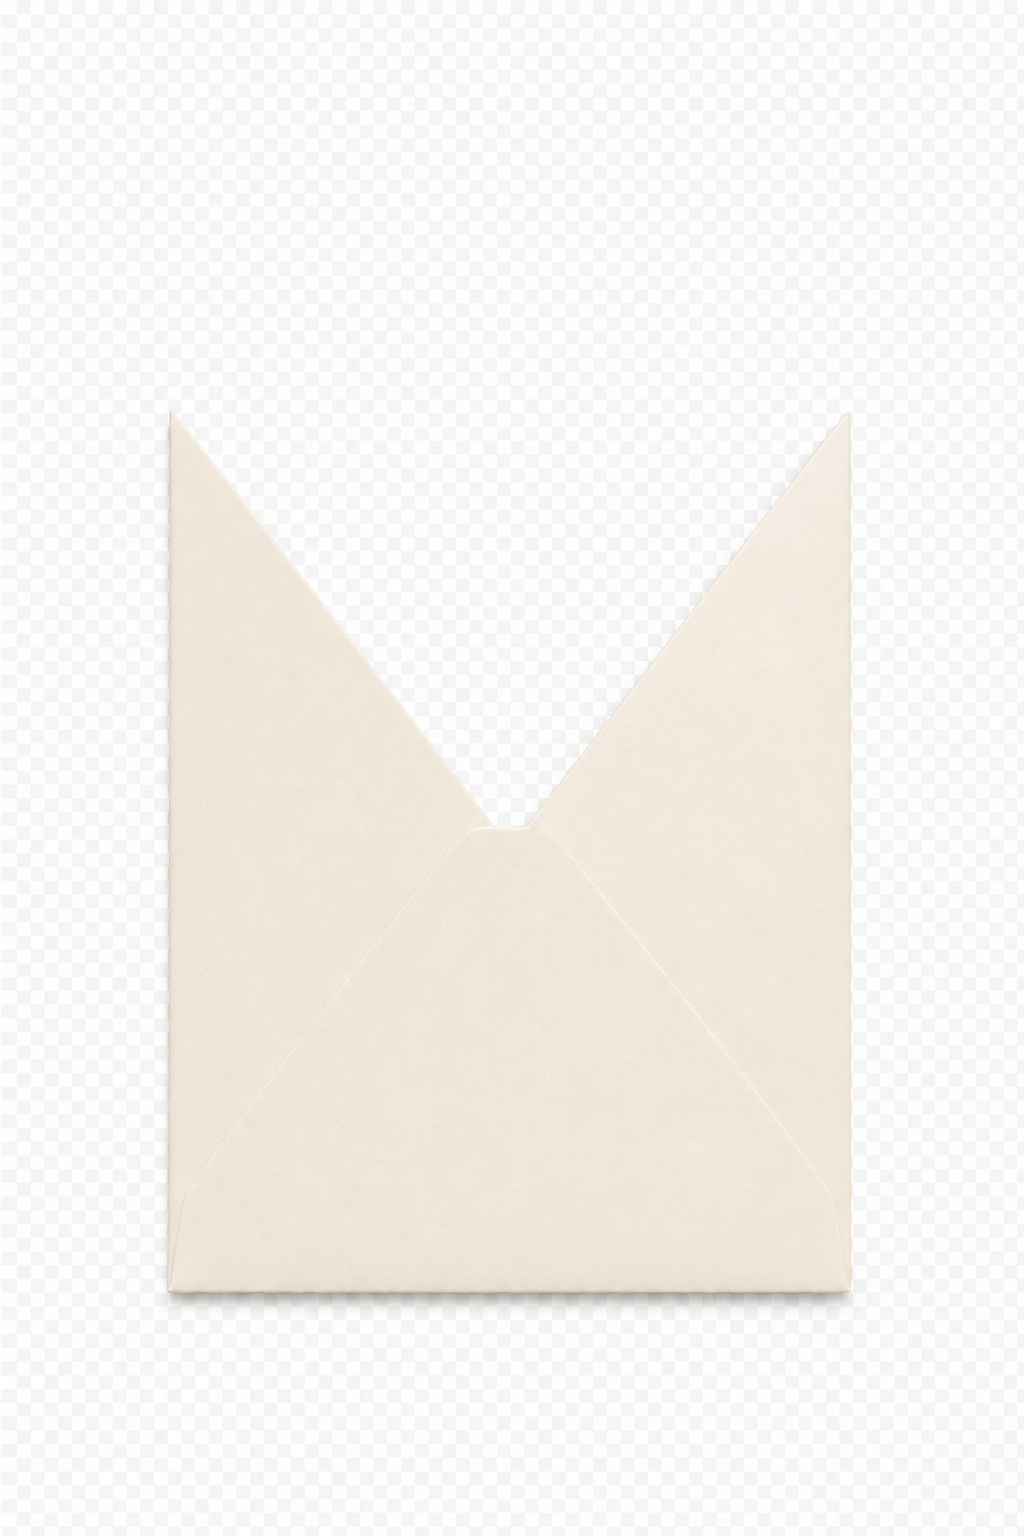
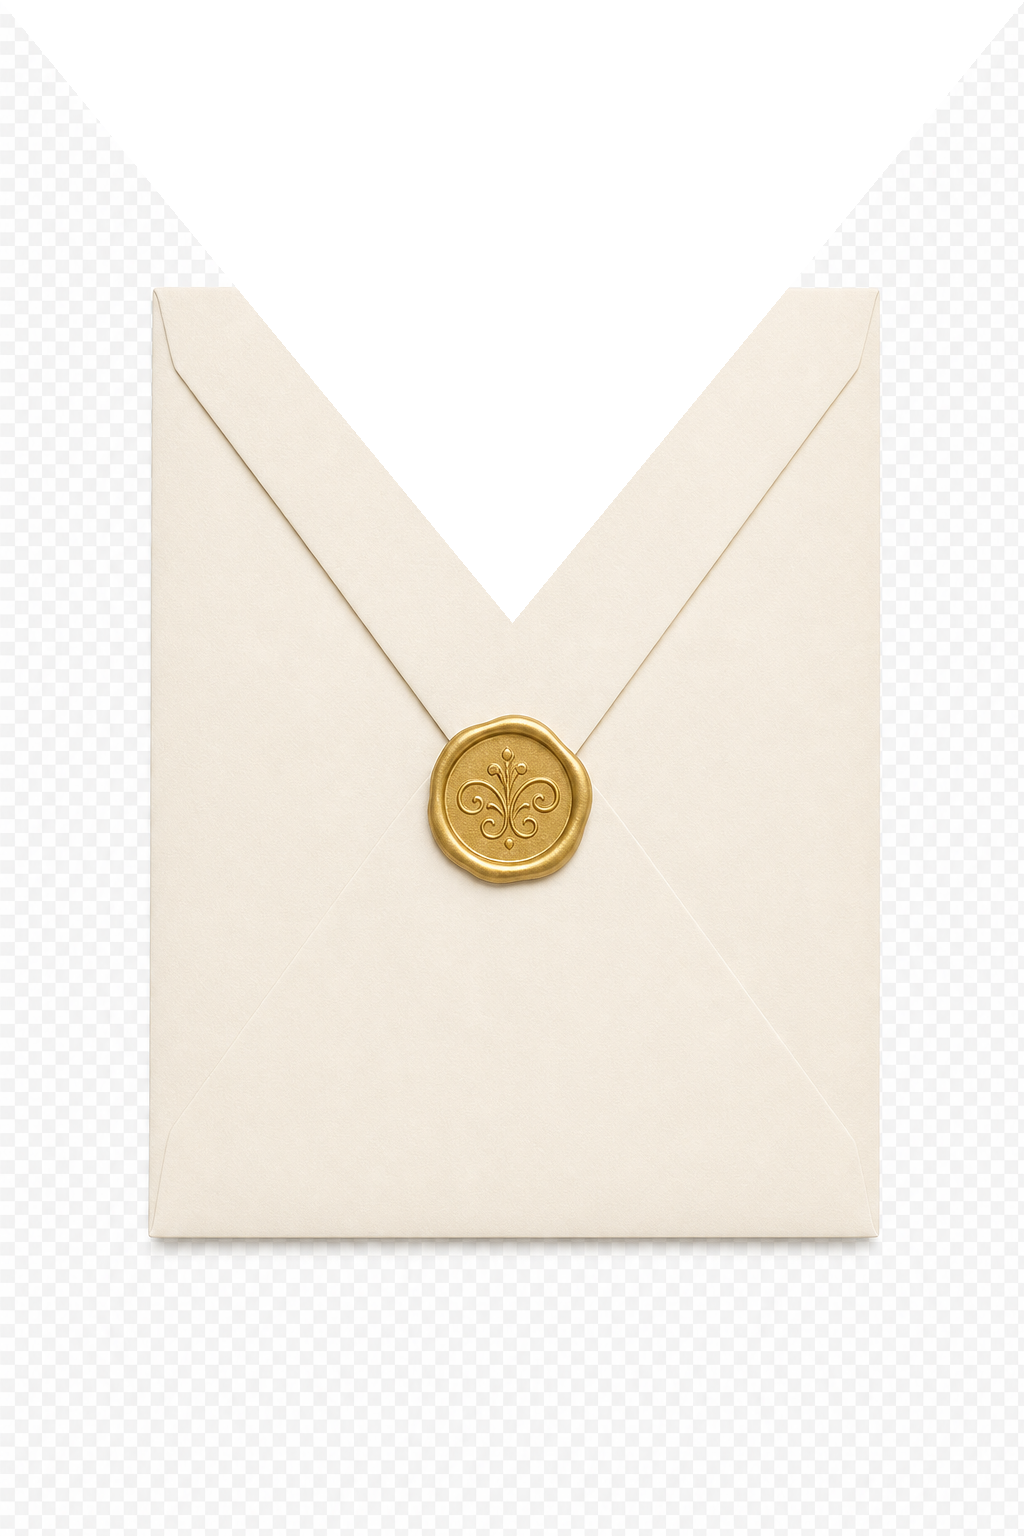
Fix 3d-cinema envelope: use closed asset layers with clip-path
The generated layer PNGs did not composite into a believable closed
envelope. Rebuild 3d-cinema from envelope-closed.png with a clipped
flap overlay, crossfade to envelope-open on flap rotation, and remove
the duplicate SVG seal over the baked wax seal.

Changed region(s): [[0.125, 0.1875, 0.875, 0.875]]

diff --git a/styles.css b/styles.css
@@ -302,19 +302,21 @@ textarea {
   width: 100%;
   height: 100%;
   object-fit: cover;
-  object-position: center;
+  object-position: center 42%;
   pointer-events: none;
   display: none;
   user-select: none;
   -webkit-user-drag: none;
 }
 
-.envelope__back { z-index: 1; }
+.envelope__interior { z-index: 1; opacity: 0; }
 .envelope__letter { z-index: 2; }
-.envelope__front { z-index: 3; }
+.envelope__body { z-index: 3; }
 .envelope__flap {
   z-index: 4;
-  transform-origin: top center;
+  clip-path: polygon(0 0, 100% 0, 50% 40.5%);
+  transform-origin: 50% 40.5%;
+  backface-visibility: hidden;
   will-change: transform;
   transition: transform var(--anim-flap-open) cubic-bezier(0.4, 0, 0.2, 1), z-index 0s var(--anim-flap-open);
 }
@@ -326,6 +328,10 @@ body.anim-3d-cinema .envelope__part {
 body.anim-3d-cinema .envelope__open,
 body.anim-3d-cinema .envelope__closed {
   display: none;
+}
+
+body.anim-3d-cinema .envelope__stage {
+  animation: envelopeBreathe 4.5s ease-in-out infinite;
 }
 
 .envelope__open,
@@ -570,8 +576,17 @@ body.anim-cinematic .invitation.is-revealed-zoom {
 }
 
 /* ——— Variant: 3D Cinema (layered envelope + physical flap) ——— */
-body.anim-3d-cinema .envelope__seal { opacity: 1; visibility: visible; }
-body.anim-3d-cinema .envelope-scene.is-seal-breaking .envelope__seal-svg { animation: sealCrack var(--anim-seal-break) var(--ease-out) forwards; }
+body.anim-3d-cinema .envelope__seal { opacity: 0; visibility: hidden; }
+
+body.anim-3d-cinema .envelope-scene.is-seal-breaking .envelope__flap {
+  animation: sealFlapWiggle var(--anim-seal-break) var(--ease-out);
+}
+
+@keyframes sealFlapWiggle {
+  0%, 100% { transform: rotateX(0deg); }
+  35% { transform: rotateX(-4deg); }
+  70% { transform: rotateX(2deg); }
+}
 
 body.anim-3d-cinema .envelope__letter {
   opacity: 1;
@@ -579,8 +594,18 @@ body.anim-3d-cinema .envelope__letter {
   transform: translate(-50%, 20%) scale(0.88) rotate(-2deg);
 }
 
+body.anim-3d-cinema .envelope-scene.is-flap-opening .envelope__body {
+  opacity: 0;
+  transition: opacity calc(var(--anim-flap-open) * 0.35) var(--ease-out);
+}
+
+body.anim-3d-cinema .envelope-scene.is-flap-opening .envelope__interior {
+  opacity: 1;
+  transition: opacity calc(var(--anim-flap-open) * 0.45) var(--ease-out);
+}
+
 body.anim-3d-cinema .envelope-scene.is-flap-opening .envelope__flap {
-  transform: rotateX(180deg);
+  transform: rotateX(-165deg);
   z-index: 1;
 }
 

diff --git a/index.html b/index.html
@@ -14,7 +14,7 @@
   <link rel="preconnect" href="https://fonts.googleapis.com" />
   <link rel="preconnect" href="https://fonts.gstatic.com" crossorigin />
   <link href="https://fonts.googleapis.com/css2?family=Cormorant+Garamond:ital,wght@0,400;0,500;0,600;1,400;1,500&family=Italianno&family=Outfit:wght@300;400;500&display=swap" rel="stylesheet" />
-  <link rel="stylesheet" href="styles.css?v=15" />
+  <link rel="stylesheet" href="styles.css?v=16" />
 </head>
 <body>
   <!-- Envelope overlay -->
@@ -71,12 +71,12 @@
 
     <button type="button" class="envelope" id="envelope" aria-label="Apri la busta d'invito">
       <span class="envelope__stage" id="envelopeStage">
-        <img class="envelope__part envelope__back" src="images/envelope-back.png?v=16" alt="" draggable="false" />
+        <img class="envelope__part envelope__interior" src="images/envelope-open.png?v=15" alt="" draggable="false" />
         <div class="envelope__letter" aria-hidden="true">
           <span class="envelope__letter-monogram">G &amp; M</span>
         </div>
-        <img class="envelope__part envelope__front" src="images/envelope-front.png?v=16" alt="" draggable="false" />
-        <img class="envelope__part envelope__flap" src="images/envelope-flap.png?v=16" alt="" draggable="false" />
+        <img class="envelope__part envelope__body" src="images/envelope-closed.png?v=15" alt="" draggable="false" />
+        <img class="envelope__part envelope__flap" src="images/envelope-closed.png?v=15" alt="" draggable="false" />
         <img class="envelope__open" src="images/envelope-open.png?v=15" alt="" draggable="false" />
         <img class="envelope__closed" src="images/envelope-closed.png?v=15" alt="" draggable="false" />
         <div class="envelope__seal" aria-hidden="true">
@@ -354,6 +354,6 @@
     <span class="music-toggle__icon music-toggle__icon--off" aria-hidden="true">♩</span>
   </button>
 
-  <script src="script.js?v=15"></script>
+  <script src="script.js?v=16"></script>
 </body>
 </html>